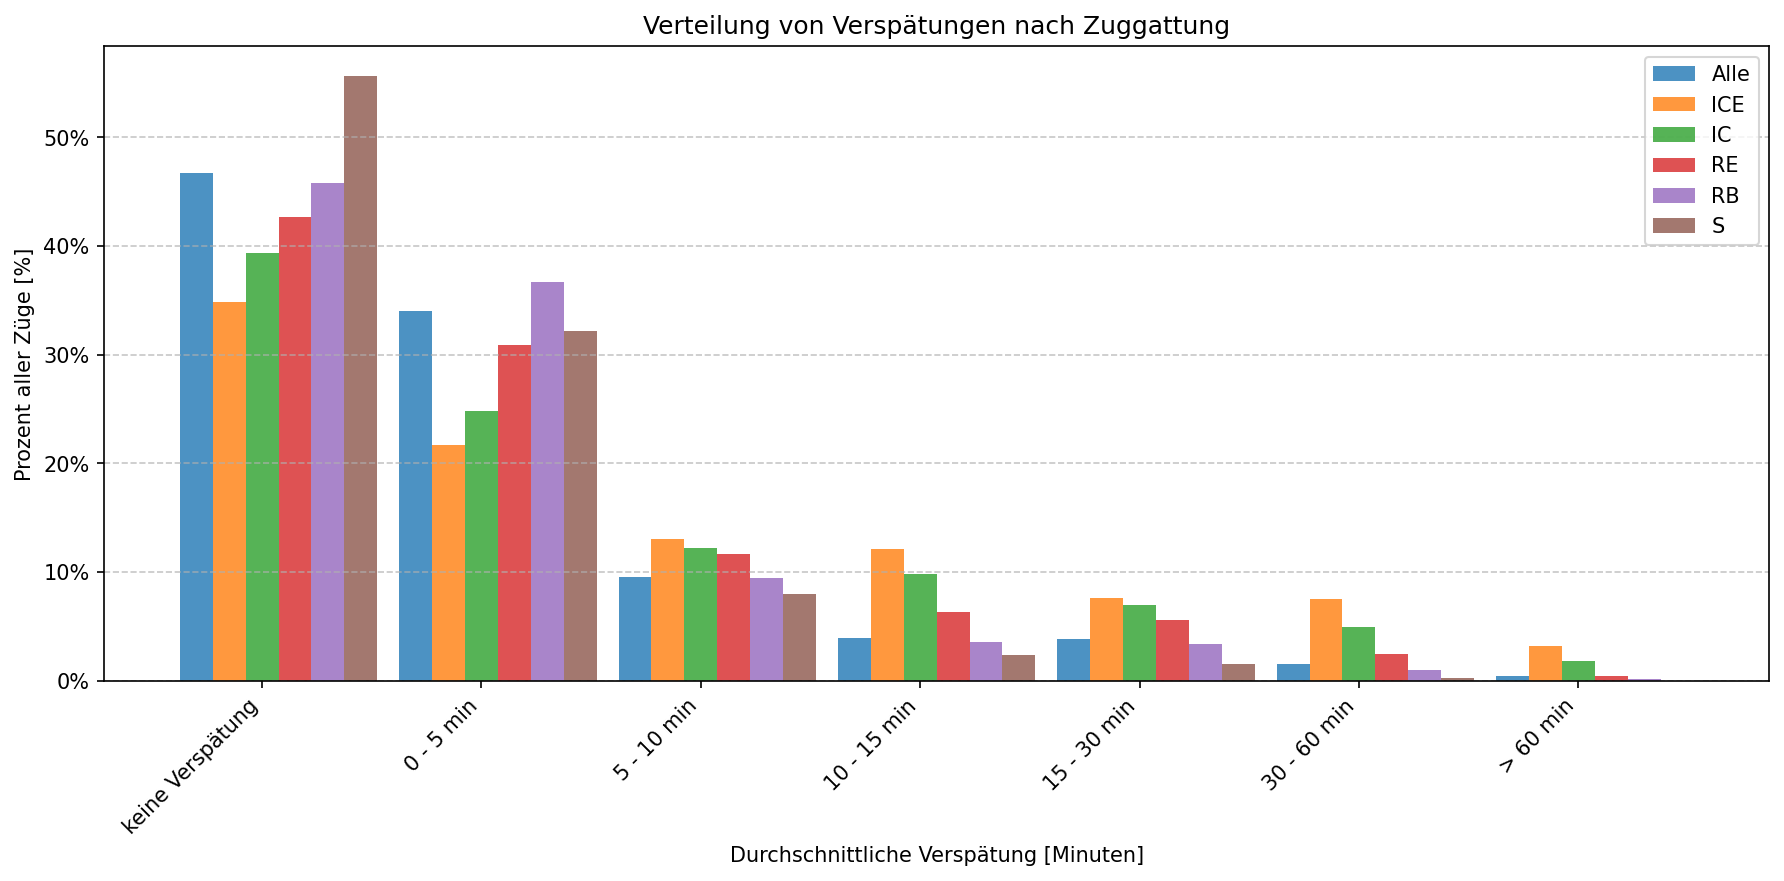
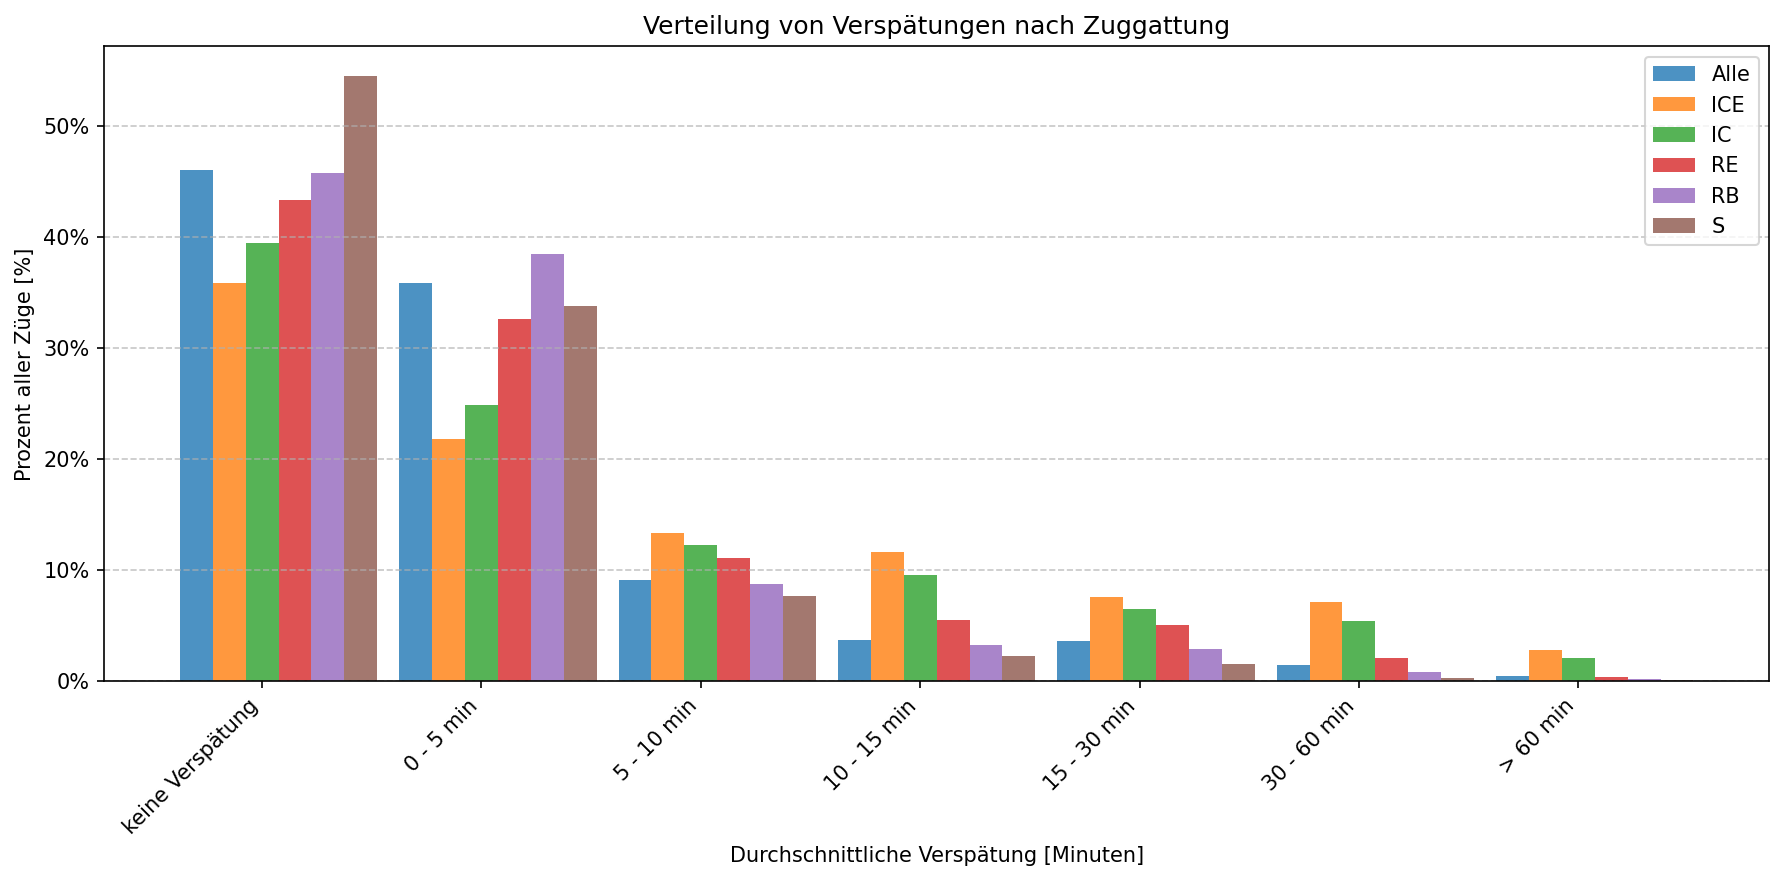
update general stats to 3 months and add plot

diff --git a/questions/allgemein/index.html b/questions/allgemein/index.html
@@ -30,7 +30,7 @@
     <div id="stats-buttons"></div>
     <div id="content">
         <p id="stats-text">
-            Im letzten Monat gab es insgesamt <span class="highlight" id="zughalte">{ZUGHALTE}</span> <span id="zug-type">Zughalte</span> an den ~100 größten Bahnhöfen in Deutschland.
+            In den letzten drei Monat gab es insgesamt <span class="highlight" id="zughalte">{ZUGHALTE}</span> <span id="zug-type">Zughalte</span> an den ~100 größten Bahnhöfen in Deutschland.
             Die Züge hatten eine durchschnittliche Verspätung von <span class="highlight" id="verspaetung">{VERSPAETUNG}</span> Minuten.
             Die <a href="https://www.deutschebahn.com/de/konzern/konzernprofil/zahlen_fakten/puenktlichkeitswerte-6878476#">Deutsche Bahn</a> definiert eine Verspätung von weniger als 6 Minuten als pünktlich und damit waren <span class="highlight" id="puenktlich">{PUENKTLICH}</span> der Halte pünktlich.
             Insgesamt gab es eine Ausfallquote von <span class="highlight" id="ausgefallen">{AUSGEFALLEN}</span>.
@@ -38,6 +38,10 @@
         <p>
             Hier ist die Verteilung der Verspätungen im Detail, aufgeschlüsselt nach Zuggattung:
             <img src="data/Verteilung von Verspätungen.png" alt="Verteilung von Verspätungen">
+        </p>
+        <p>
+            Noch genauer ist hier die kumulative Verteilung der Verspätungen:
+            <img src="data/Kumulative Verteilung der Verspätungen.png" alt="Kumulative Verteilung der Verspätungen">
         </p>
         <p>
             Dies ist eine grobe Übersicht über die Verspätungen von Zügen in Deutschland im letzten Monat, aber wie sieht es in anderen Zeiträumen aus?

diff --git a/questions/zuggattungen_pro_bahnhof/index.html b/questions/zuggattungen_pro_bahnhof/index.html
@@ -64,7 +64,7 @@
 
         <nav class="question-nav">
             <a href="../verspaetung_pro_bahnhof" class="prev-question">Vorherige Frage</a>
-            <a href="../bahnhof" class="next-question">Wie ist die durchschnittle Verspätung von Zügen in einem Bahnhof?</a>
+            <a href="../bahnhof" class="next-question">Wie ist die durchschnittliche Verspätung von Zügen in einem Bahnhof?</a>
         </nav>
     </p>
     <!-- end of generated footer -->

diff --git a/questions/allgemein/calculations.py b/questions/allgemein/calculations.py
@@ -8,10 +8,10 @@ import pandas as pd
 save_dir = Path(__file__).parent / "data"
 save_dir.mkdir(exist_ok=True)
 
-# Load data from the last full month
-df = pd.read_parquet(sorted(Path("data").iterdir())[-1])[
-    ["delay_in_min", "station", "is_canceled", "train_type"]
-]
+df_list = []
+for file in sorted(Path("data").iterdir())[-3:]:
+    df_list.append(pd.read_parquet(file)[["delay_in_min", "station", "is_canceled", "train_type"]])
+df = pd.concat(df_list, ignore_index=True)
 
 data_dict = {}
 delay_distributions = {}
@@ -55,7 +55,7 @@ for train_type in ["all", "ICE", "IC", "RE", "RB", "S"]:
 with (save_dir / "allgemeine_statistiken.json").open("w", encoding="utf-8") as f:
     json.dump(data_dict, f, ensure_ascii=False, indent=4)
 
-# Create visualization after data collection
+
 plt.figure(figsize=(12, 6))
 bar_width = 0.15
 x = np.arange(len(labels))
@@ -79,4 +79,40 @@ plt.grid(axis="y", linestyle="--", alpha=0.7)
 plt.tight_layout()
 
 plt.savefig(save_dir / "Verteilung von Verspätungen.png", dpi=150, bbox_inches="tight")
+plt.close()
+
+
+
+plt.figure(figsize=(12, 6))
+for train_type in ["all", "ICE", "IC", "RE", "RB", "S"]:
+    if train_type == "all":
+        df_plot = df[~df["is_canceled"]]
+        display_name = "Alle"
+    else:
+        df_plot = df[(df["train_type"] == train_type) & (~df["is_canceled"])]
+        display_name = train_type
+    
+    # Group by delay minutes and calculate cumulative percentage
+    delay_counts = df_plot["delay_in_min"].value_counts().sort_index()
+    cumulative = (delay_counts.cumsum() / len(df_plot) * 100)
+    
+    # Plot CDF
+    plt.plot(cumulative.index, cumulative.values, label=display_name)
+
+# Customize the chart
+plt.xlabel("Verspätung [Minuten]")
+plt.ylabel("Kumulativer Anteil der Züge [%]")
+plt.title("Kumulative Verteilung der Verspätungen nach Zuggattung")
+
+plt.xlim(-5, 60)
+
+# Format y-axis to show percentage symbol
+plt.gca().yaxis.set_major_formatter(plt.FuncFormatter(lambda x, _: f"{int(x)}%"))
+plt.gca().yaxis.set_major_locator(plt.MultipleLocator(10))
+
+plt.legend()
+plt.grid(True, linestyle="--", alpha=0.7)
+plt.tight_layout()
+
+plt.savefig(save_dir / "Kumulative Verteilung der Verspätungen.png", dpi=150, bbox_inches="tight")
 plt.close()
